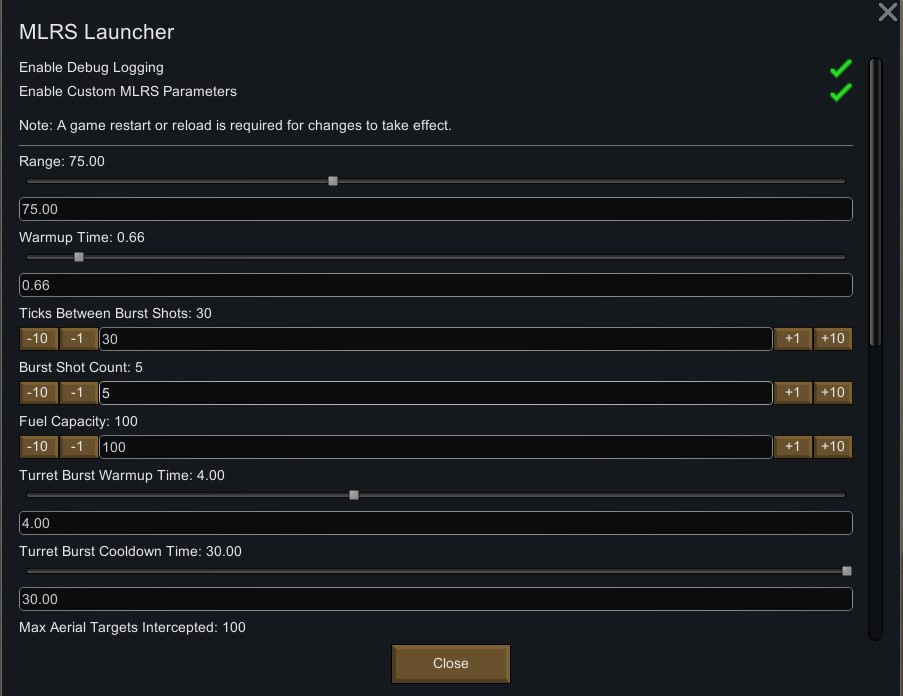
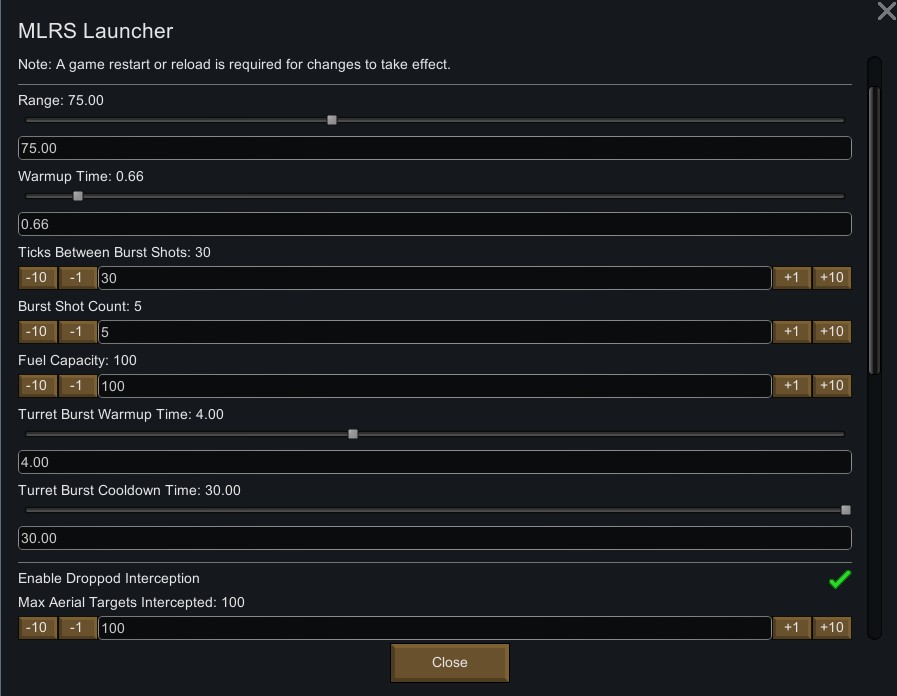
Add setting to disable droppod intercept, fix preview image

diff --git a/1.6/Source/RimworldMLRS/RimworldMLRSMod.cs b/1.6/Source/RimworldMLRS/RimworldMLRSMod.cs
@@ -49,6 +49,8 @@ namespace RimworldMLRS
                 DrawIntSetting(list, "Fuel Capacity", ref settings.fuelCapacity, 1, 200);
                 DrawFloatSetting(list, "Turret Burst Warmup Time", ref settings.turretBurstWarmupTime, 0f, 10f);
                 DrawFloatSetting(list, "Turret Burst Cooldown Time", ref settings.turretBurstCooldownTime, 0f, 30f);
+                list.GapLine();
+                list.CheckboxLabeled("Enable Droppod Interception", ref settings.canInterceptSkyfallers);
                 DrawIntSetting(list, "Max Aerial Targets Intercepted", ref settings.maxIntercepts, 0, 100);
                 DrawIntSetting(list, "Interceptor Cooldown (ticks)", ref settings.interceptCooldownTicks, 60, 1800);
             }

diff --git a/1.6/Source/RimworldMLRS/RimworldMLRSSettings.cs b/1.6/Source/RimworldMLRS/RimworldMLRSSettings.cs
@@ -21,6 +21,8 @@ namespace RimworldMLRS
 
         public bool enableDebugLogging = false;
 
+        public bool canInterceptSkyfallers = true;
+
         public override void ExposeData()
         {
             Scribe_Values.Look(ref useCustomParameters, "useCustomParameters", false);
@@ -34,6 +36,7 @@ namespace RimworldMLRS
             Scribe_Values.Look(ref maxIntercepts, "maxIntercepts", 5);
             Scribe_Values.Look(ref interceptCooldownTicks, "interceptCooldownTicks", 5);
             Scribe_Values.Look(ref enableDebugLogging, "enableDebugLogging", false);
+            Scribe_Values.Look(ref canInterceptSkyfallers, "canInterceptSkyfallers", true);
         }
     }
 }

diff --git a/1.6/Source/RimworldMLRS/CompSkyfallerInterceptor.cs b/1.6/Source/RimworldMLRS/CompSkyfallerInterceptor.cs
@@ -33,6 +33,10 @@ namespace RimworldMLRS
 
         public override void CompTick()
         {
+            if (!RimworldMLRSMod.settings.canInterceptSkyfallers)
+            {
+                return;
+            }
             base.CompTick();
 
             tickCounter++;
